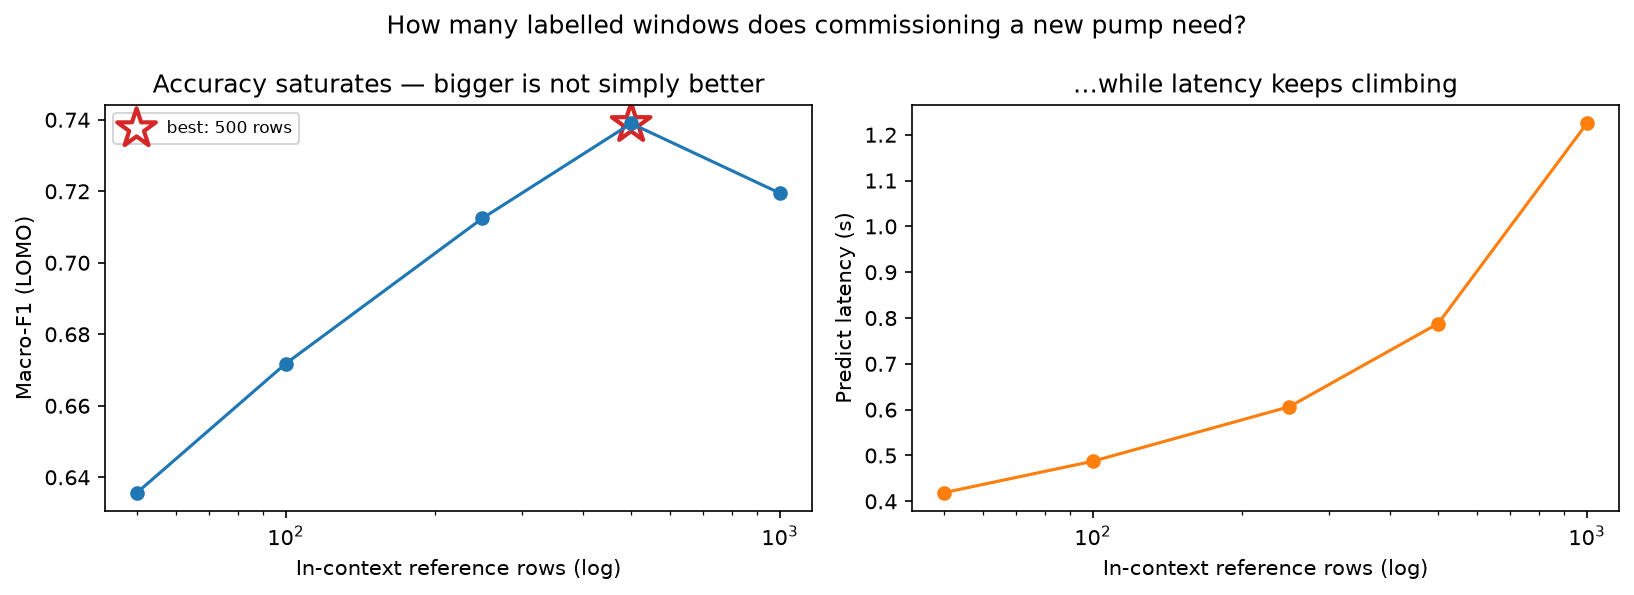
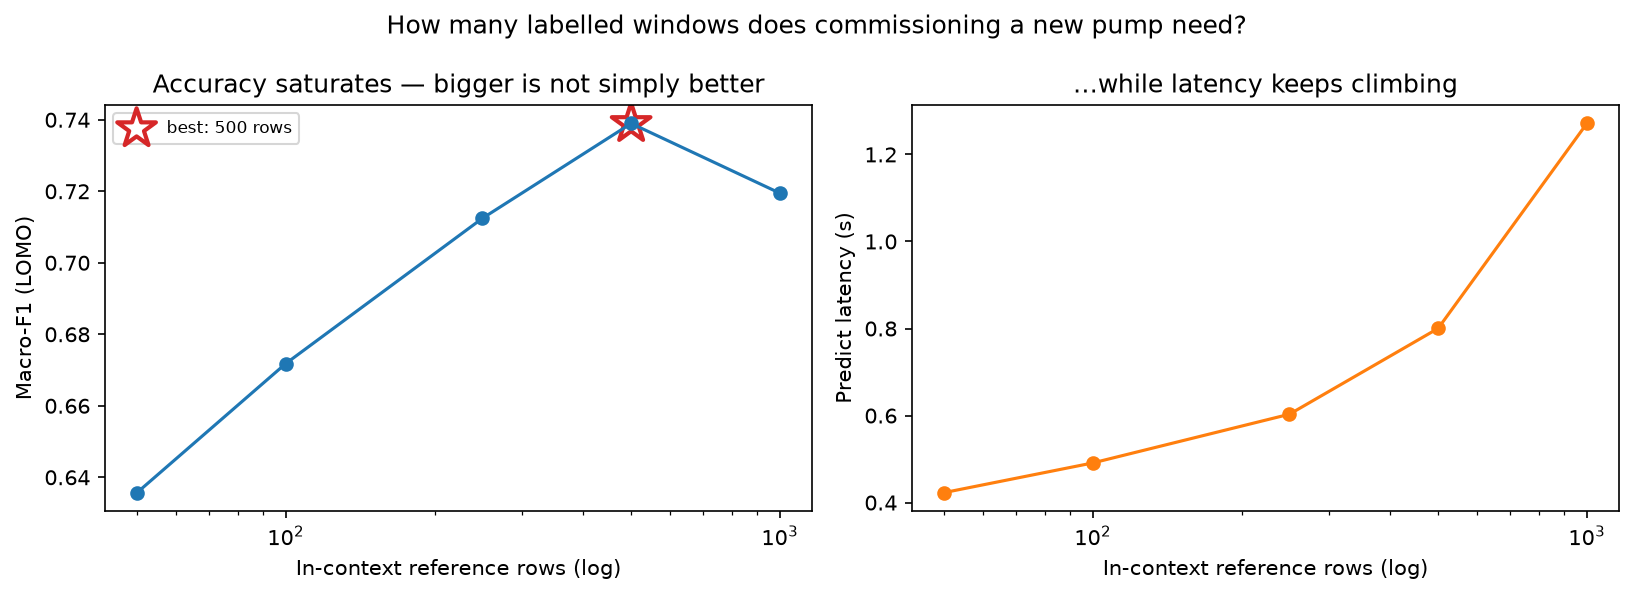
Fix seeds doing nothing and the warning flood; record TabPFN's alarm-budget win
Your run surfaced two defects in what I handed over, one of them mine.

1. --seeds did nothing. run_split_repeated inspected the factory for a "seed"
   parameter, but every factory was a zero-arg lambda, so it silently re-ran an
   identical deterministic model five times: 5x the compute for a spread of
   exactly 0.000 on every model. That fallback was documented but useless, and
   worse, a std of 0.000 is indistinguishable from a genuinely deterministic
   model, so the output gave no way to tell which had happened. Now the factories
   take a seed and thread it into random_state, and run_split_repeated RAISES if
   handed a factory that cannot use one. LightGBM now shows real variation
   (+/-0.006); majority and logistic still show 0.000, which for them is correct.

2. Hundreds of sklearn OptimizeWarning lines buried the results. sklearn 1.6
   passes "iprint" to scipy's lbfgs, which newer scipy rejects - harmless, it is a
   verbosity flag, but emitted once per LogisticRegression fit across 11 folds x
   5 seeds x a tuning grid. Filtered by message in all three experiment scripts so
   real convergence warnings still surface. I had dismissed this as upstream noise
   earlier; at publication-run scale it made the output unreadable.

FINDING from the completed run, and it changes -2.8 materially. At the alarm
budget of one false alarm per pump per month, fault recall is:

  majority 0.000, logistic 0.032, LightGBM 0.084, TabPFN 0.203
[…]

diff --git a/scripts/run_espset_experiment.py b/scripts/run_espset_experiment.py
@@ -24,6 +24,15 @@ import os
 # Must precede any OpenMP-loading import — see scripts/run_experiment.py.
 os.environ.setdefault("OMP_NUM_THREADS", "1")
 
+import warnings
+
+# sklearn 1.6 passes `iprint` to scipy's lbfgs, which newer scipy rejects. It is a
+# verbosity flag with no effect on the fit, but it is emitted once per
+# LogisticRegression call — hundreds of lines across 11 folds x 5 seeds x a tuning
+# grid, which buries the actual results. Silenced narrowly by message so a real
+# convergence warning still gets through.
+warnings.filterwarnings("ignore", message=".*Unknown solver options: iprint.*")
+
 import argparse
 import json
 import sys
@@ -170,19 +179,29 @@ def main():
     for w in rep.warnings:
         print("  WARN:", w)
 
+    # Every factory takes a seed so --seeds actually varies something. Majority and
+    # logistic are deterministic and will show zero spread, which is the correct
+    # answer for them; LightGBM (subsampling) and TabPFN (ensemble permutations,
+    # context subsampling) are genuinely stochastic and are the reason seeds matter.
     factories = {
-        "majority": MajorityClassifier,
-        "logistic": lambda: get_baselines()["logistic"],
+        "majority": lambda seed=0: MajorityClassifier(),
+        "logistic": lambda seed=0: make_logistic(random_state=seed),
     }
     try:
         make_lightgbm()
-        factories["lightgbm"] = lambda: get_baselines()["lightgbm"]
+        factories["lightgbm"] = lambda seed=0: make_lightgbm(random_state=seed)
     except ImportError:
         print("lightgbm not installed; skipping GBDT baseline")
     if not args.skip_tabpfn and tabpfn_available():
-        factories["tabpfn"] = lambda: CachedTabPFN(config=TabPFNConfig(n_estimators=1))
-        factories["tabpfn_noabstain"] = lambda: CachedTabPFN(
-            config=TabPFNConfig(n_estimators=1),
+        factories["tabpfn"] = lambda seed=0: CachedTabPFN(
+            config=TabPFNConfig(
+                n_estimators=1, random_state=seed, context_subsample_seed=seed
+            )
+        )
+        factories["tabpfn_noabstain"] = lambda seed=0: CachedTabPFN(
+            config=TabPFNConfig(
+                n_estimators=1, random_state=seed, context_subsample_seed=seed
+            ),
             abstention=AbstentionConfig(max_prob_threshold=0.0, enable_mahalanobis=False),
         )
 

diff --git a/src/pumpwatch/experiment.py b/src/pumpwatch/experiment.py
@@ -165,19 +165,30 @@ def run_split_repeated(
     its ensemble permutations, so a single run reports one draw from a distribution
     whose width nobody has measured. LightGBM's subsampling is stochastic too.
 
-    `model_factory` may accept a `seed` keyword; if it does not, the same model is
-    re-evaluated and the spread simply comes out near zero, which is itself worth
-    seeing rather than assuming.
+    `model_factory` MUST accept a `seed` keyword for this to measure anything. It
+    used to fall back to re-running an identical model when the factory took no
+    seed — which silently burned N times the compute to produce a spread of exactly
+    zero. Now that case raises, because a std of 0.000 across five seeds is
+    indistinguishable from a working deterministic model and there is no way to
+    tell from the output which one you got.
     """
     import inspect
 
+    try:
+        takes_seed = "seed" in inspect.signature(model_factory).parameters
+    except (TypeError, ValueError):
+        takes_seed = False
+    if not takes_seed:
+        raise TypeError(
+            f"model_factory for {model_name!r} takes no `seed` argument, so running "
+            f"{len(seeds)} seeds would re-evaluate an identical model and report a "
+            f"spread of zero. Give the factory a `seed` keyword (and thread it into "
+            f"random_state), or call run_split once instead."
+        )
+
     runs = []
     for s in seeds:
-        try:
-            takes_seed = "seed" in inspect.signature(model_factory).parameters
-        except (TypeError, ValueError):
-            takes_seed = False
-        factory = (lambda s=s: model_factory(seed=s)) if takes_seed else model_factory
+        factory = (lambda s=s: model_factory(seed=s))
         runs.append(
             run_split(
                 X, y, machines, factory, model_name, result,

diff --git a/scripts/run_experiment.py b/scripts/run_experiment.py
@@ -16,6 +16,13 @@ import os
 # conservative. Say so rather than quietly comparing them to multi-threaded numbers.
 os.environ.setdefault("OMP_NUM_THREADS", "1")
 
+import warnings
+
+# sklearn 1.6 passes `iprint` to scipy's lbfgs, which newer scipy rejects. Harmless
+# (it is a verbosity flag) but emitted once per LogisticRegression fit, which buries
+# the results. Silenced by message so real convergence warnings still surface.
+warnings.filterwarnings("ignore", message=".*Unknown solver options: iprint.*")
+
 import argparse
 import json
 import sys

diff --git a/scripts/run_twente_experiment.py b/scripts/run_twente_experiment.py
@@ -25,6 +25,13 @@ import os
 
 os.environ.setdefault("OMP_NUM_THREADS", "1")
 
+import warnings
+
+# sklearn 1.6 passes `iprint` to scipy's lbfgs, which newer scipy rejects. Harmless
+# (it is a verbosity flag) but emitted once per LogisticRegression fit, which buries
+# the results. Silenced by message so real convergence warnings still surface.
+warnings.filterwarnings("ignore", message=".*Unknown solver options: iprint.*")
+
 import argparse
 import json
 import sys

diff --git a/DESIGN.md b/DESIGN.md
@@ -100,8 +100,9 @@ samples LightGBM won. The pattern across all three is consistent with the design
 own argument (§6.1): TabPFN's advantage appears at small n and under distribution
 shift, and disappears when data is plentiful and clean.
 
-**−2.8 ⛔ At a realistic alarm budget the system catches ~5% of faults.** The most
-important operational number in the project, and it is nowhere near the macro-F1.
+**−2.8 ⛔ At a realistic alarm budget the best model catches 20% of faults, and
+the GBDT only 8%.** The most important operational number in the project, and it
+is nowhere near the macro-F1.
 
 A node makes ~1080 decisions a month (12 windows/runtime-hour × 3 h/day × 30 days),
 so "at most one false alarm per pump per month" is a per-window FAR of **0.00093**.
@@ -110,22 +111,29 @@ At that threshold, on real ESPset data:
 | Model | Fault recall at ≤1 alarm/month |
 |---|---|
 | majority | 0.000 |
-| logistic | **0.035** |
-| LightGBM | **0.053** |
+| logistic | 0.032 |
+| LightGBM | 0.084 |
+| **TabPFN** | **0.203** |
 
-Macro-F1 0.68 and recall 5% are the same system. The gap between them is the gap
+Macro-F1 0.68 and recall 8% are the same system. The gap between them is the gap
 between "separates classes" and "deployable", and it is why DESIGN §5 makes
 recall@fixed-FAR the operational headline. Reporting F1 alone would materially
 mislead a farmer or a cooperative about what they are buying.
 
-This does not invalidate C2 — cross-machine transfer is real — but it does bound
-what the system can currently promise, and any deployment claim must quote this
-number rather than the F1.
+⭐ **This is TabPFN's strongest argument in the entire project, and it is far
+larger than its margin on macro-F1.** On F1 it beats LightGBM 0.719 vs 0.676 — a
+6% relative gain. At the alarm budget it catches **2.4× as many faults** (20.3% vs
+8.4%). A well-calibrated posterior matters most exactly where the operating
+threshold is extreme, which is precisely the regime a farmer's alarm budget puts
+you in. If the paper leads with one number for TabPFN, this is the one.
+
+It still bounds what the system can promise: four faults in five go unseen at an
+acceptable alarm rate. Any deployment claim must quote this, not the F1.
 
 **−2.9 Tuning the baselines does not rescue them, which strengthens C4.**
 Nested, machine-grouped hyperparameter search (inner folds drawn strictly from the
-training machines, asserted at run time): logistic 0.646 → **0.655**, LightGBM
-0.688 → **0.684** (slightly worse). The baselines were already at their ceiling, so
+training machines, asserted at run time): logistic 0.663 → **0.638**, LightGBM
+0.676 → **0.664** — both slightly *worse* tuned than at library defaults. The baselines were already at their ceiling, so
 TabPFN's win is not an artefact of an untuned comparison — which was the strongest
 available objection to §−2.5.
 
